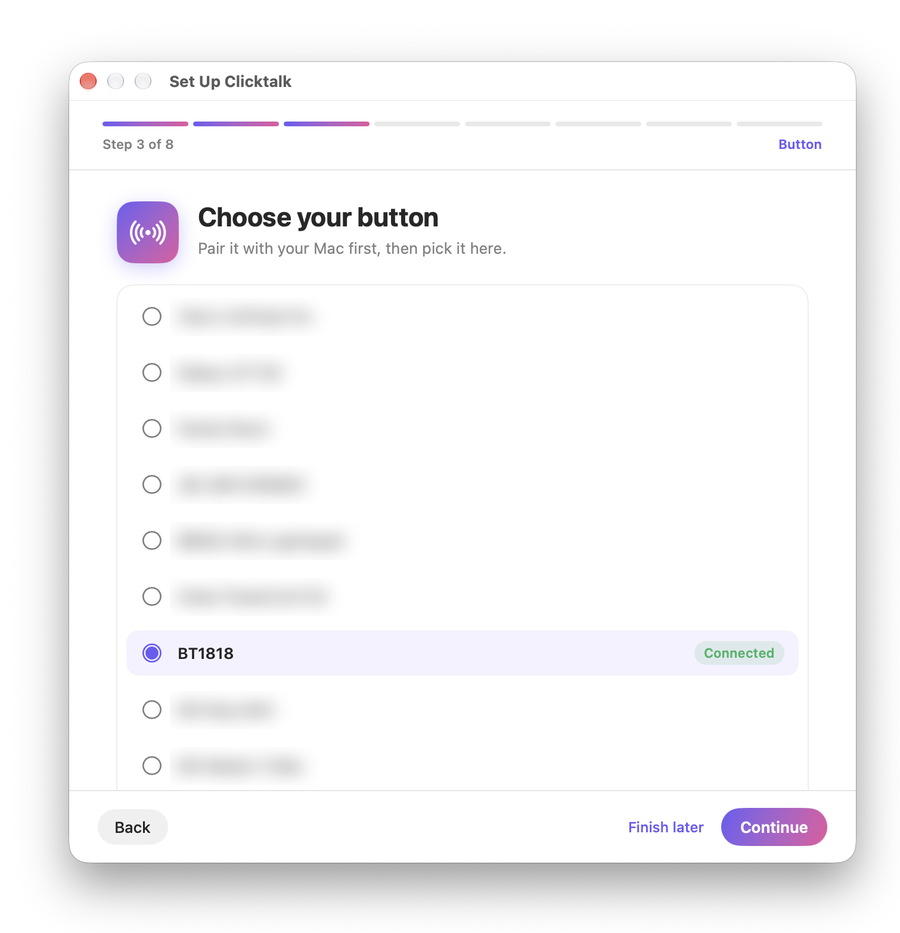
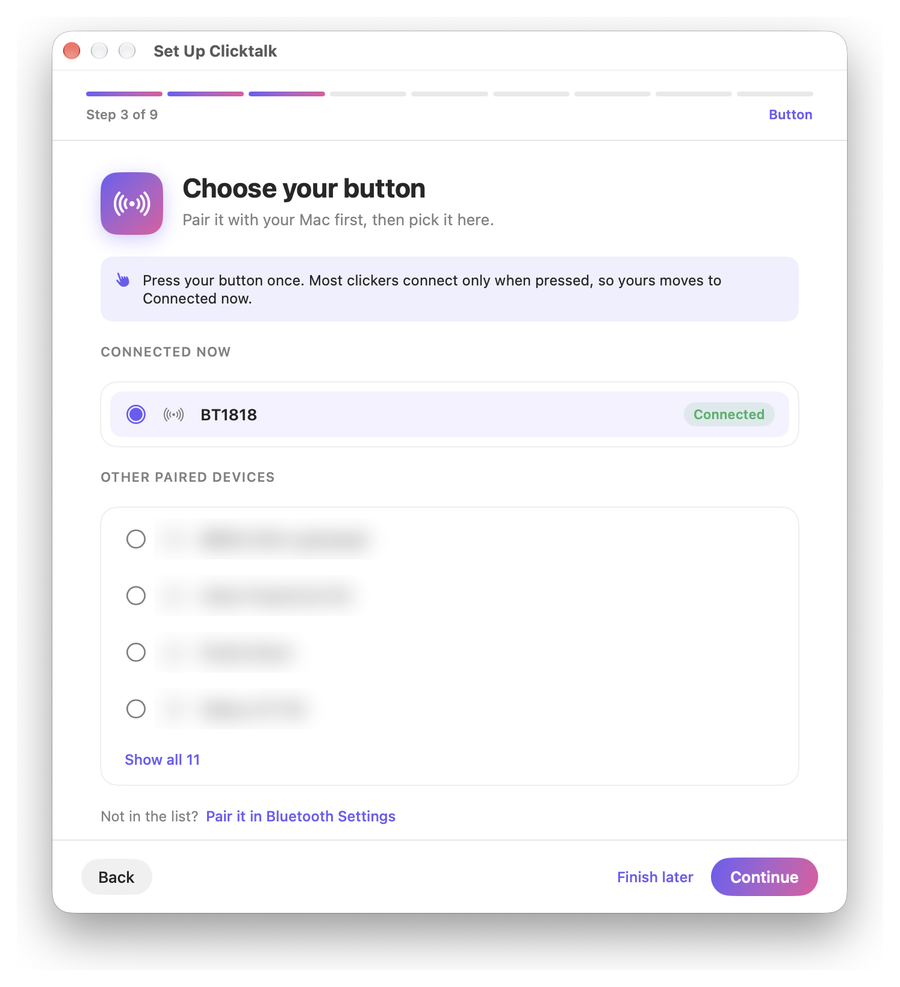
Use current screenshots for every setup step
All nine steps and the overview now come from the current build, trimmed
to the window with even margins and one width. The Button step blurs the
names of other paired devices and keeps the example remote, BT1818,
readable. Steps 1, 2 and 5 get their images back in the README.

diff --git a/README.md b/README.md
@@ -93,11 +93,15 @@ reports the step done. You can close the guide and pick up later from the menu b
 The guide lists what you need. If Clicktalk is not in Applications, it offers to copy itself there
 first. macOS ties permissions to the app's location, so do this before granting anything.
 
+<p align="center"><img src="docs/images/step-1-welcome.png" width="480" alt="Welcome"></p>
+
 
 ### 2. Allow Bluetooth
 
 Click **Allow Bluetooth**, then **Allow** in the macOS prompt. Clicktalk only uses this to see
 whether your button is connected or asleep.
+
+<p align="center"><img src="docs/images/step-2-bluetooth.png" width="480" alt="Allow Bluetooth"></p>
 
 
 ### 3. Choose your button
@@ -123,6 +127,8 @@ When the step is done, a green note says that Clicktalk now holds your button.
 
 Press the button once. Clicktalk learns which key the button sends, for example Volume Up, and shows
 its name. Every clicker is different, so this replaces any device list.
+
+<p align="center"><img src="docs/images/step-5-learn.png" width="480" alt="Press your button"></p>
 
 
 ### 6. Choose what it does
